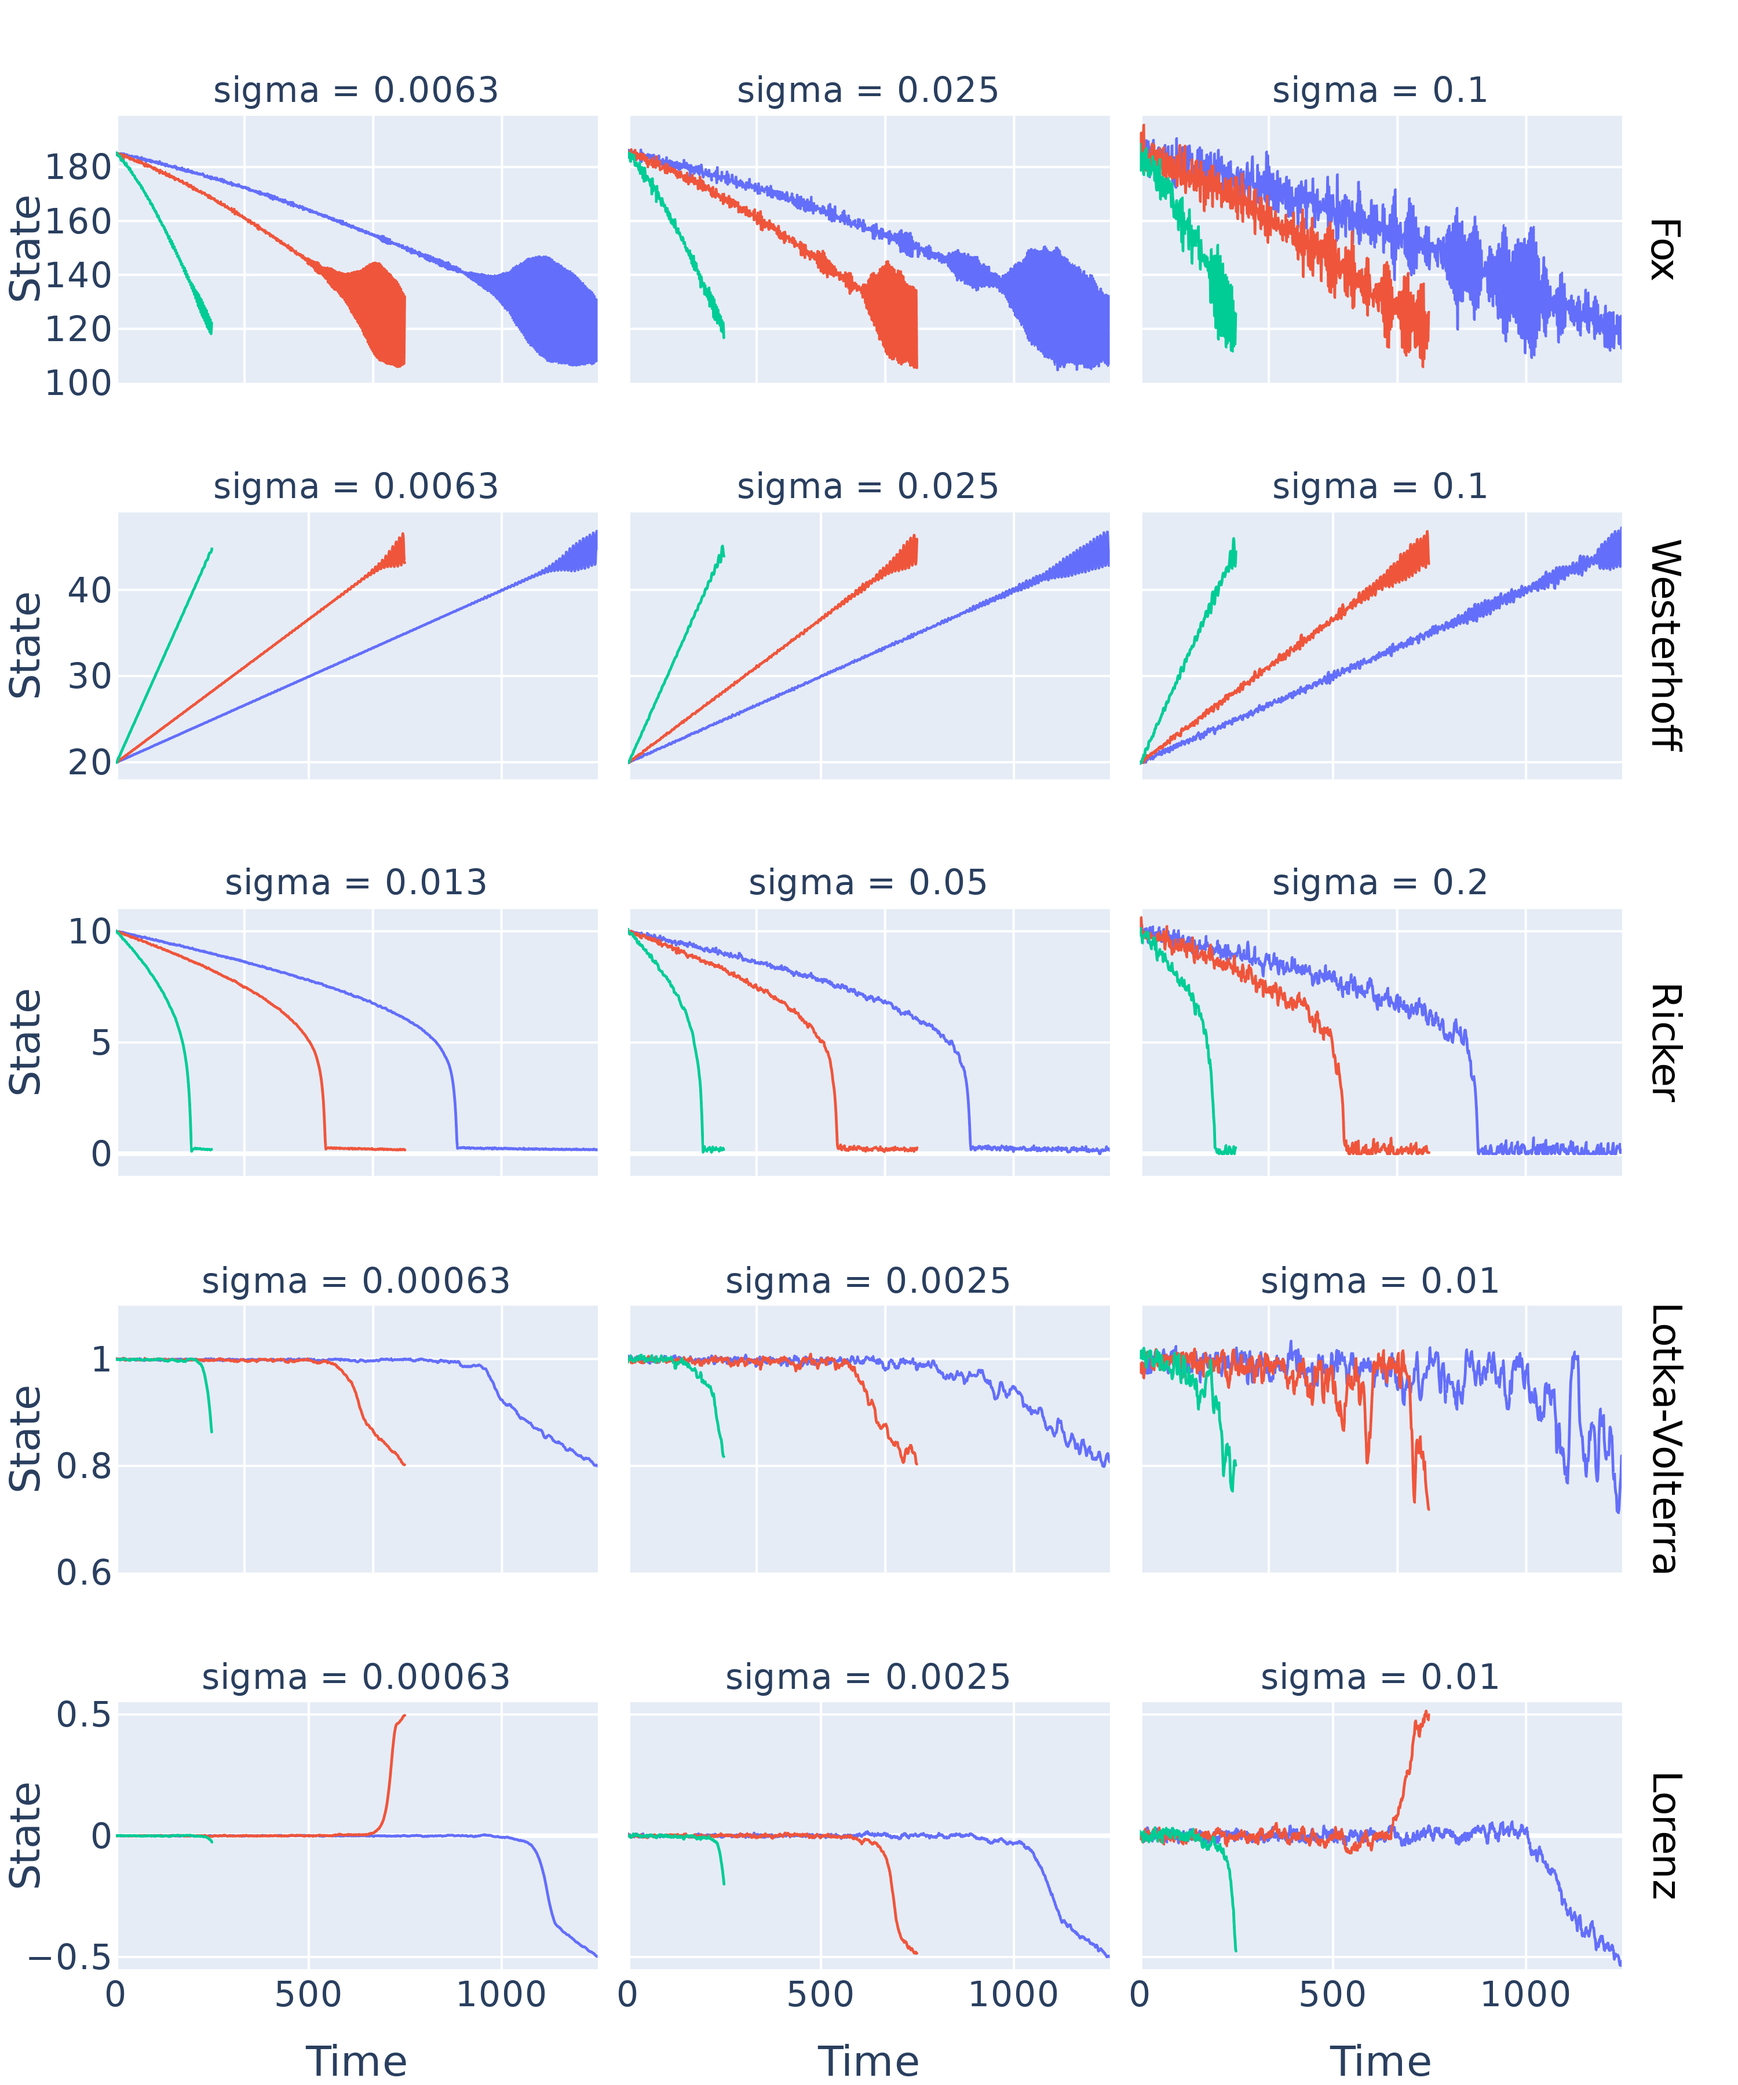
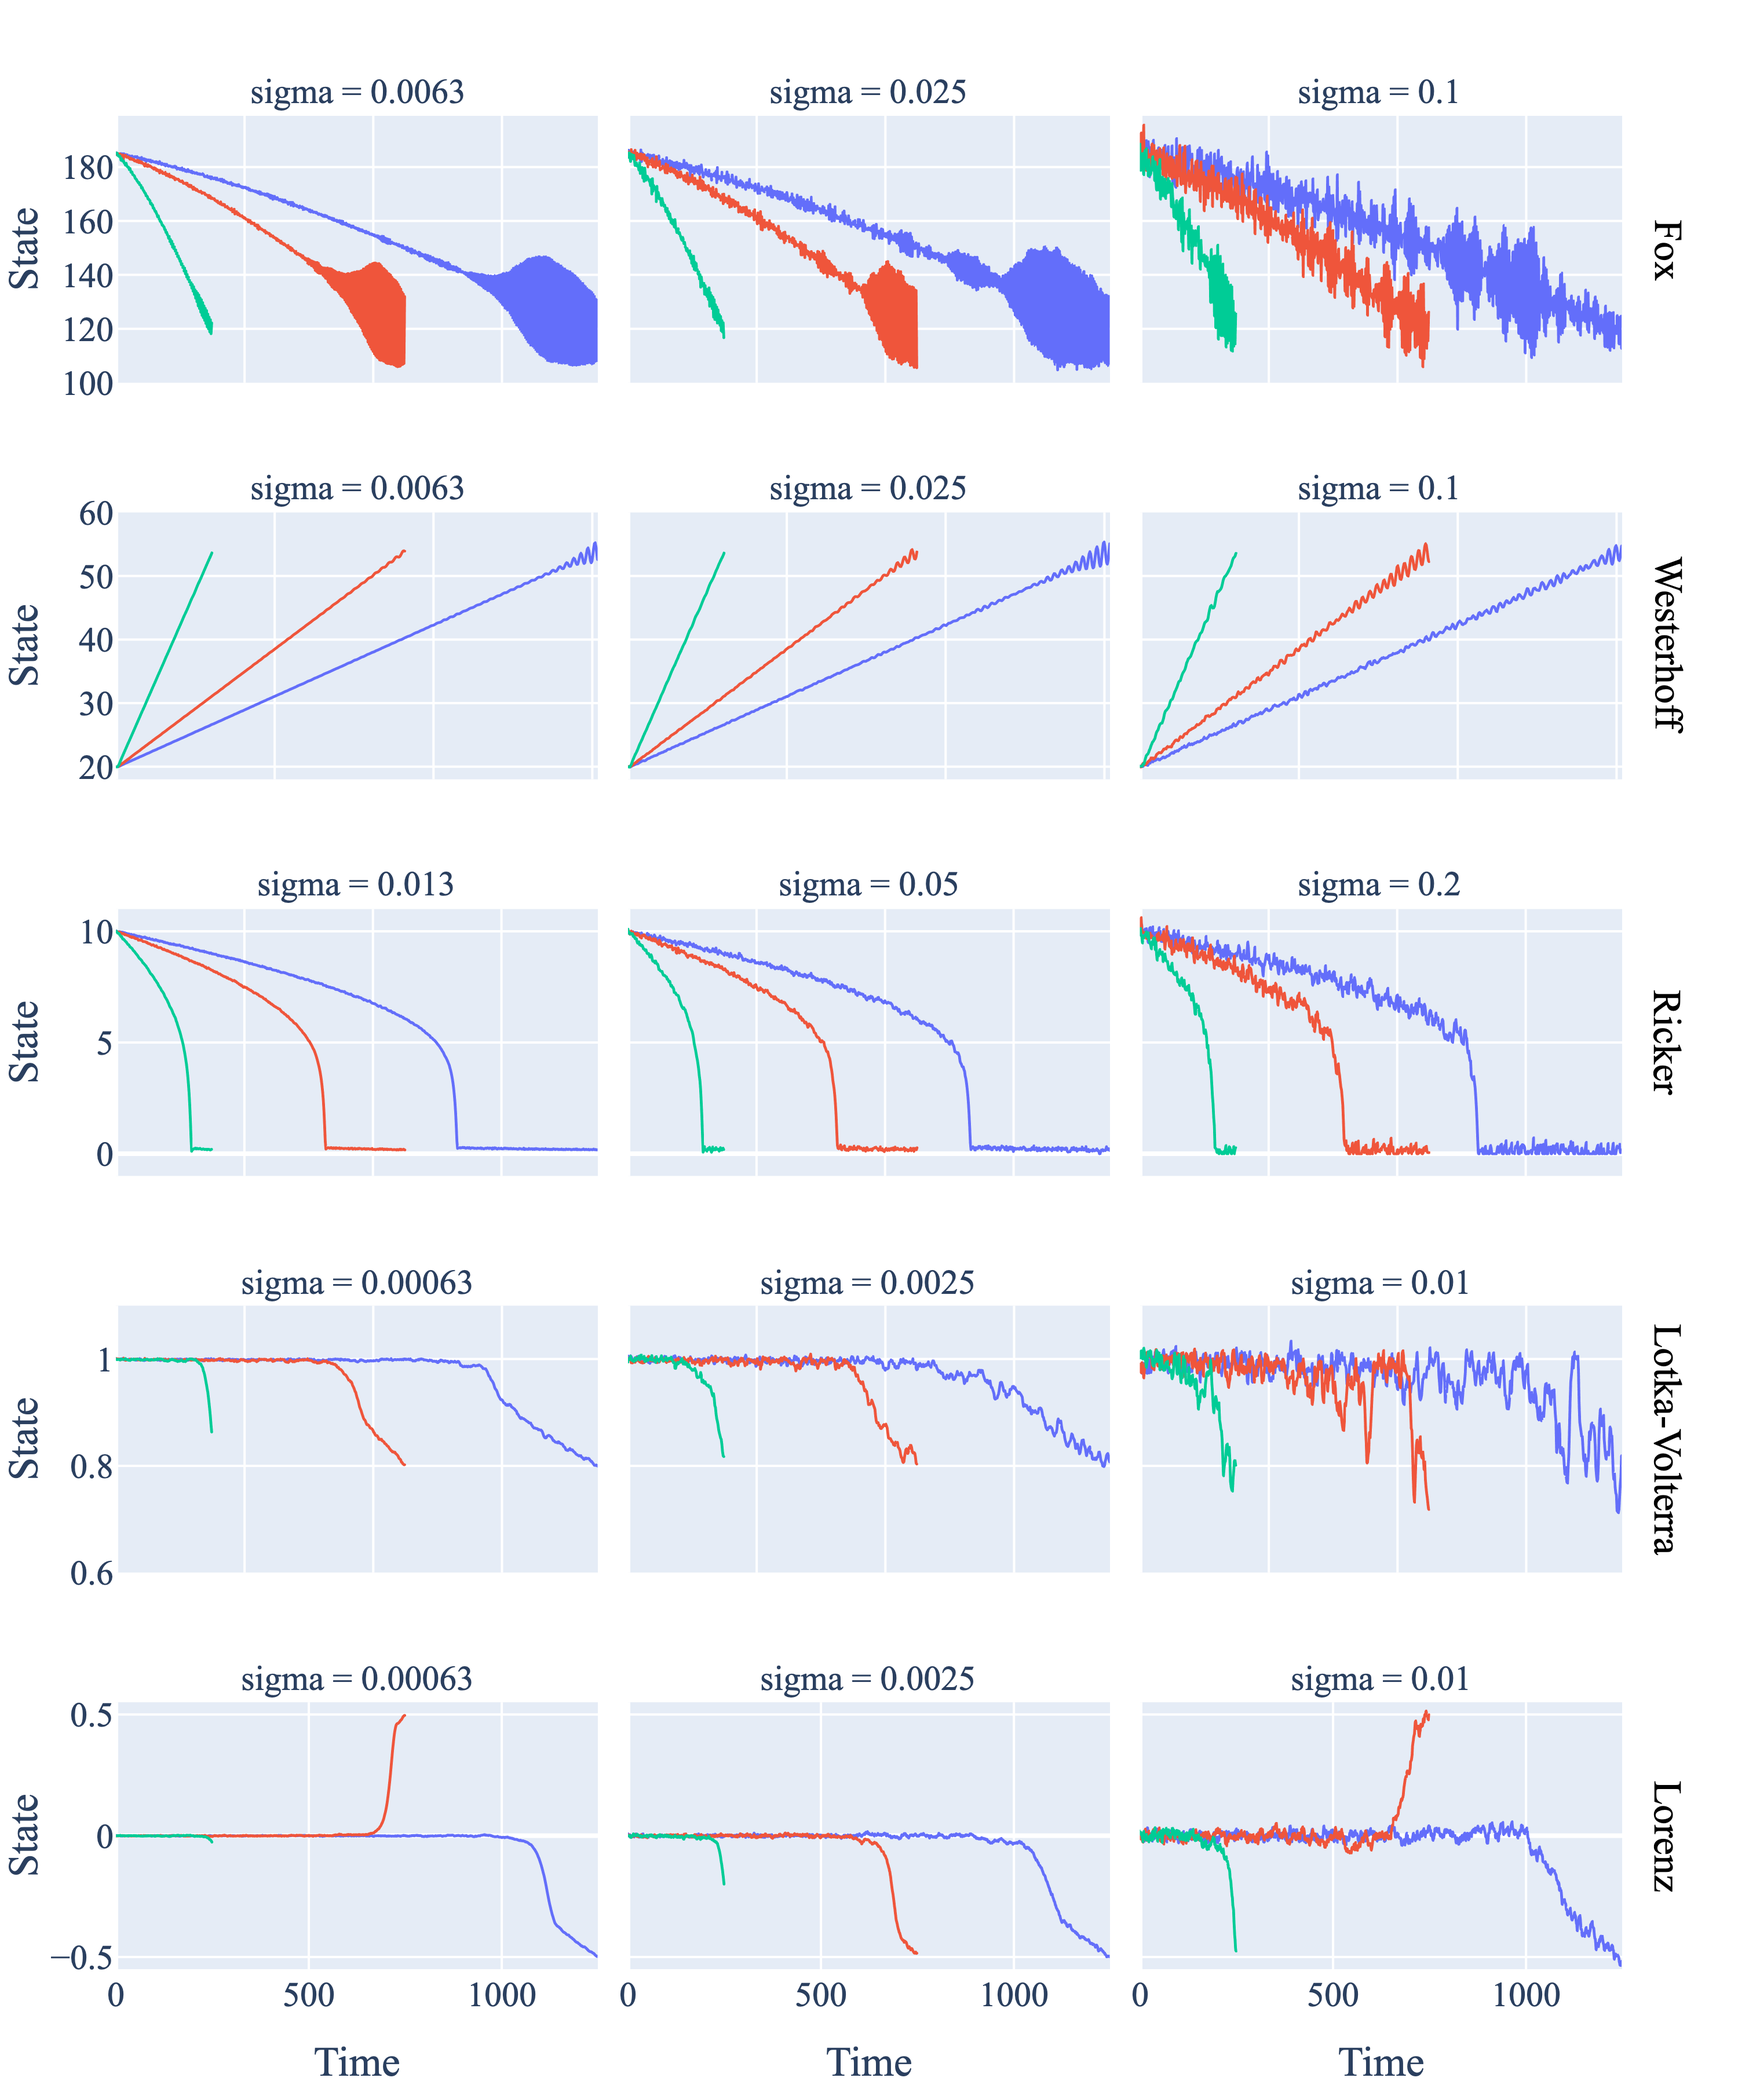
prepare for full test run

diff --git a/code/figure_s3/make_fig.py b/code/figure_s3/make_fig.py
@@ -16,7 +16,6 @@ import pandas as pd
 
 import plotly.express as px
 
-
 import plotly.graph_objects as go
 from plotly.subplots import make_subplots
 
@@ -58,7 +57,7 @@ for sigma in sigma_vals:
 ## Westerhoff model
 np.random.seed(0)
 sigma_vals = [0.00625, 0.025,  0.1]
-rof_vals = [5/500,  5/300,  5/100]
+rof_vals = [14/500,  14/300,  14/100]
 
 for sigma in sigma_vals:
     for rof in rof_vals:
@@ -184,7 +183,7 @@ fig.update_xaxes(title='Time', row=1)
 
 
 yrange5 = [100,199]
-yrange4 = [18, 49]
+yrange4 = [18, 60]
 yrange3 = [-1,11]
 yrange2 = [0.6,1.1]
 yrange1 = [-0.55, 0.55]

diff --git a/code/test_westerhoff/test_westerhoff.py b/code/test_westerhoff/test_westerhoff.py
@@ -45,7 +45,7 @@ np.random.seed(0)
 eval_pt = 0.8 #  percentage of way through pre-transition time series
 
 sigma_vals = [0.00625, 0.0125, 0.025, 0.05, 0.1]
-rof_vals = [10/500, 10/400, 10/300, 10/200, 10/100]
+rof_vals = [14/500, 14/400, 14/300, 14/200, 14/100]
 id_vals = np.arange(int(model_sims/25)) # number of simulations at each combo of rof and sigma
 
 # EWS parameters
